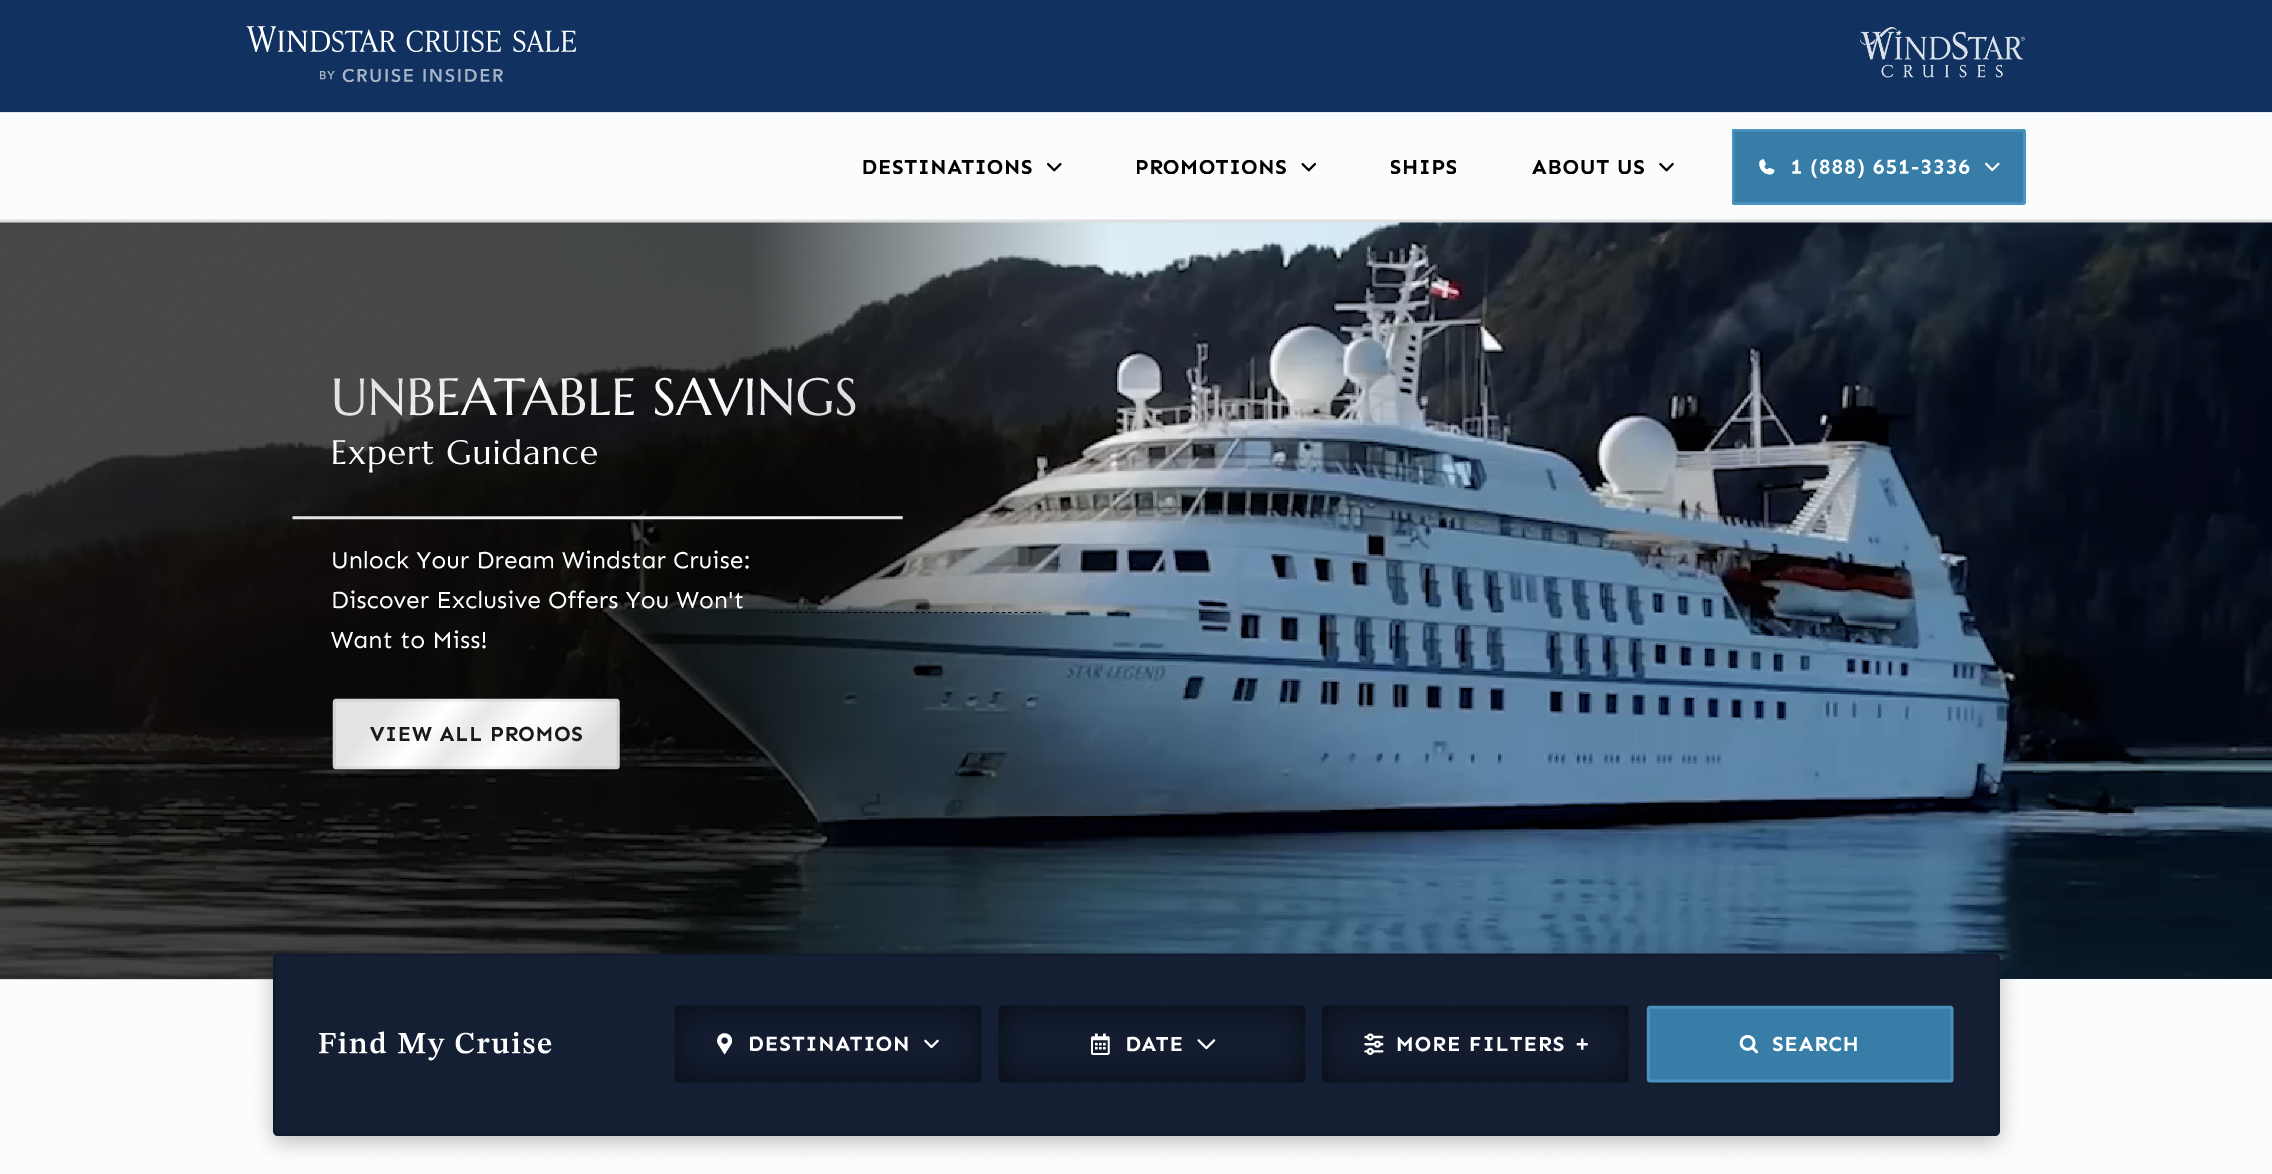
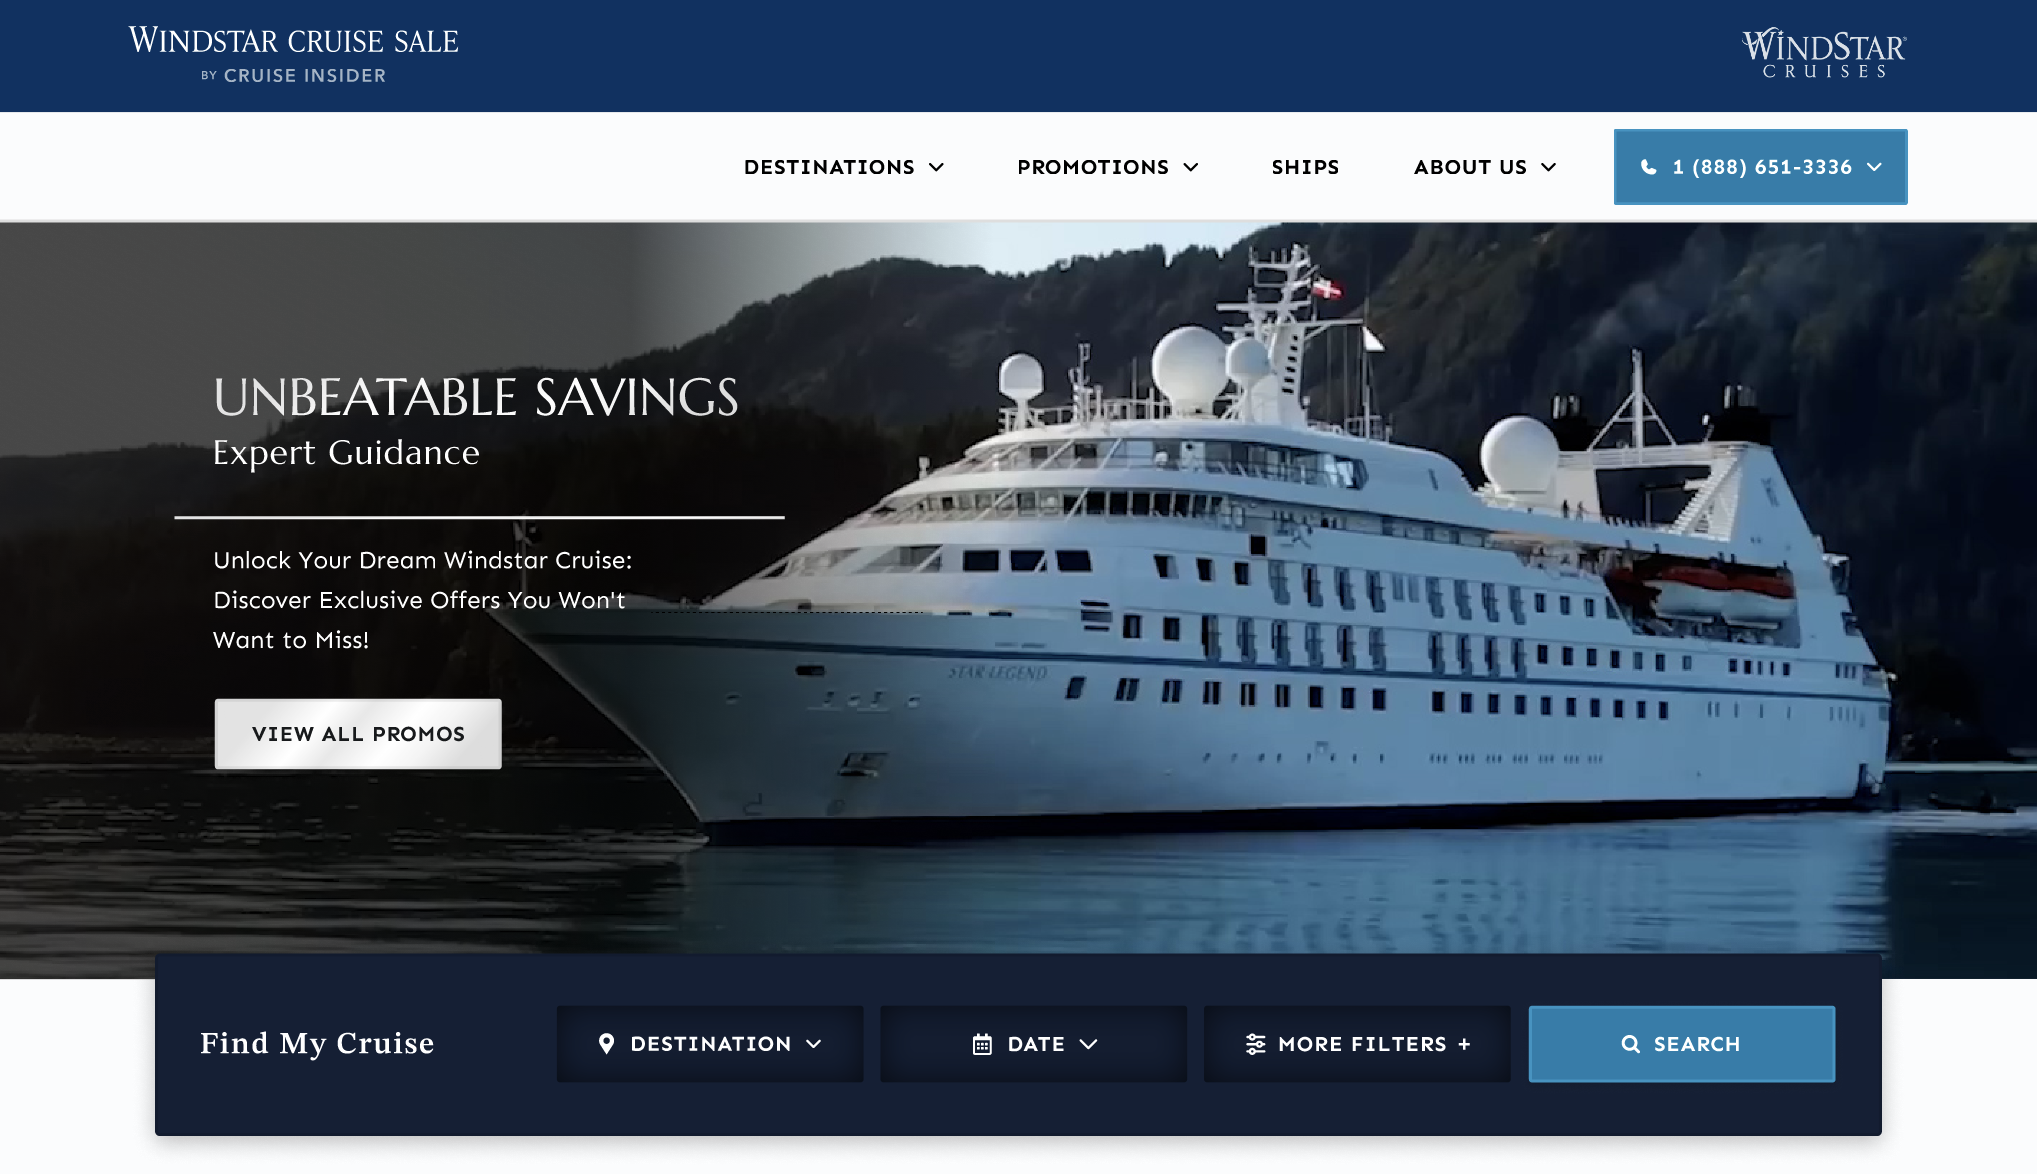
working on responsive behavior

diff --git a/styles.css b/styles.css
@@ -8,6 +8,10 @@
     letter-spacing: 0.03em;
 }
 
+html {
+    scroll-behavior: smooth;
+}
+
 h1, h2, h3, h4, h5, h6, span {
     color: #242424;
     text-align: center;
@@ -22,6 +26,36 @@ p {
     line-height: 1.75;
     font-size: 16px;
 }
+
+a{
+    text-decoration: none;
+    position: relative;
+}
+
+.link__hover-effect:after {
+    content: "";
+    position: absolute;
+    height: 3px;
+    background-color: black;
+    width: 0;
+    bottom: -6px;
+    right: 0;
+    transition: all 300ms ease;
+}
+
+.link__hover-effect--white::after {
+    background-color: #fff;
+}
+
+.link__hover-effect--black::after {
+    background-color: #242424;
+}
+
+.link__hover-effect:hover:after {
+    width: 100%;
+    left: 0;
+}
+
 
 li {
     list-style-type: none;
@@ -61,7 +95,7 @@ section:nth-child(even) {
 }
 
 nav {
-    height: 100px;
+    min-height: 100px;
     width: 100%;
     max-width: 1000px;
     margin: 0 auto;
@@ -78,7 +112,6 @@ nav {
 .nav__link--anchor {
     margin: 0 12px;
     color: #242424;
-    text-decoration: none;
     font-weight: 700;
 }
 
@@ -162,7 +195,6 @@ nav {
     justify-content: center;
     flex-wrap: wrap;
     width: 100%;
-    padding: 0 24px;
 }
 
 .language {
@@ -216,10 +248,7 @@ nav {
     margin-bottom: 40px;
 }
 
-.project__img {
-    width: 100%;
-    transition: all 600ms ease, transform 1600ms ease;
-}
+
 
 .project__wrapper {
     display: flex;
@@ -243,6 +272,11 @@ nav {
     z-index: 2;
 }
 
+.project__img {
+    width: 100%;
+    transition: all 600ms ease, transform 1600ms ease;
+}
+
 .project:hover .project__img {
     filter: blur(12px);
     opacity: 0.75;
@@ -263,10 +297,11 @@ nav {
     top: 50%;
     transform: translateY(100%);
     /* left: 20%; */
-    max-width: 550px;
+    /* max-width: 550px; */
     z-index: 3;
     opacity: 0;
     transition: transform 450ms ease, opacity 300ms ease;
+    padding: 0 10%;
 }
 
 
@@ -286,15 +321,102 @@ nav {
     font-size: 24px;
     font-weight: 700;
     margin-bottom: 0px;
+    line-height: 1.25;
 }
 
 .project__description--link {
     font-size: 20px;
-    text-decoration: none;
     margin: 0 8px 0 0;
+}
+
+footer {
+    background-color: #242424;
+}
+
+.footer__row {
+    display: flex;
+    flex-direction: column;
+    align-items: center;
+    justify-content: center;
+    padding: 8% 32px;
+}
+
+.footer__anchor {
+    position: relative;
+    margin-bottom: 32px;
 }
 
 .footer__logo {
     height: 100px;
+    z-index: 5;
+}
+
+.footer__logo--popper {
+    position: absolute;
+    right: 0;
+    top: 42%;
+    color: #fff;
+    font-weight: 700;
+    opacity: 0;
     transition: all 300ms ease;
+}
+
+.footer__anchor:hover .footer__logo--popper {
+    right: -72px;
+    opacity: 1;
+}
+
+.footer__social--list {
+    display: flex;
+    gap: 24px;
+}
+
+.footer__social--link {
+    color: #fff;
+}
+
+@media (max-width: 768px) {
+
+
+    
+
+    h1 {
+        font-size: 28px;
+    }
+
+    .about-me__info--para {
+        font-size: 18px;
+    }
+
+/*     .language {
+        width: calc(100% / 3);
+    } */
+
+    .project__description--para {
+        font-size: 14px;
+    }
+
+}
+
+@media (max-width: 480px) {
+
+    nav {
+        padding: 0 12px;
+    }
+
+    .nav__link:not(:last-child) {
+        display: none;
+    }
+
+    .project__description--title {
+        margin-bottom: 12px;
+    }
+
+    .project__description--sub-title {
+        display: none;
+    }
+
+    .project__description--para {
+        display: none;
+    }
 }

diff --git a/index.html b/index.html
@@ -13,21 +13,21 @@
         <nav>
             <div class="personal__logo">Mark Anderson</div>
             <ul class="nav__link--list">
-                <li>
+                <li class="nav__link">
                     <a href="" class="
                         nav__link--anchor
                         link__hover-effect
                         link__hover-effect--black
                     ">Languages</a>                     
                 </li>
-                <li>
+                <li class="nav__link">
                     <a href="" class="
                         nav__link--anchor
                         link__hover-effect
                         link__hover-effect--black
                     ">Project</a>                     
                 </li>
-                <li>
+                <li class="nav__link">
                     <a href="" class="
                         nav__link--anchor
                         nav__link--anchor-primary
@@ -199,12 +199,37 @@
         </div>
     </section>
     <footer>
-        <div class="row">
-            <a href="">
+        <div class="row footer__row">
+            <a href="#" class="footer__anchor">
                 <figure>
                     <img src="./assets/logo.svg" alt="logo" class="footer__logo">
                 </figure>
+                <span class="footer__logo--popper">
+                    Top <i class="fa-solid fa-arrow-up-from-bracket"></i>
+                </span>
             </a>
+            <div class="footer__social--list">
+                <a href="https://google.com" target="blank" class="
+                    footer__social--link
+                    link__hover-effect
+                    link__hover-effect--white
+                " >GitHub</a>
+                <a href="https://google.com" target="blank" class="
+                    footer__social--link
+                    link__hover-effect
+                    link__hover-effect--white
+                " >LinkedIn</a>
+                <a href="mailto:mtanderson64@gmail.com" target="blank" class="
+                    footer__social--link
+                    link__hover-effect
+                    link__hover-effect--white
+                " >Email</a>
+                <a href="./assets/anderson_mark_resume.pdf" target="blank" class="
+                    footer__social--link
+                    link__hover-effect
+                    link__hover-effect--white
+                " >Resume</a>
+            </div>
         </div>
     </footer>
 </body>
